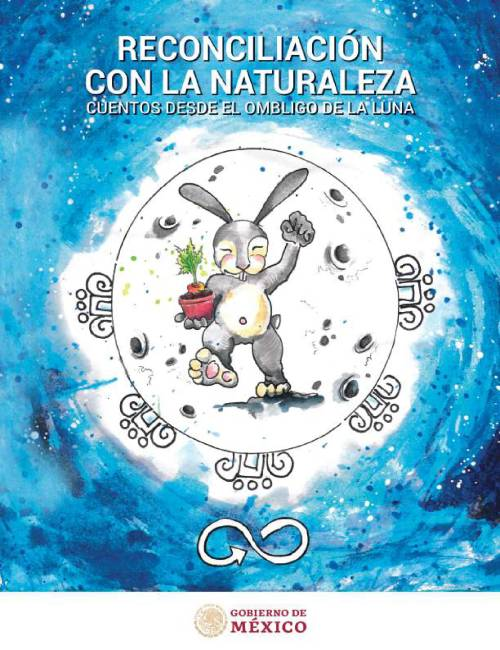
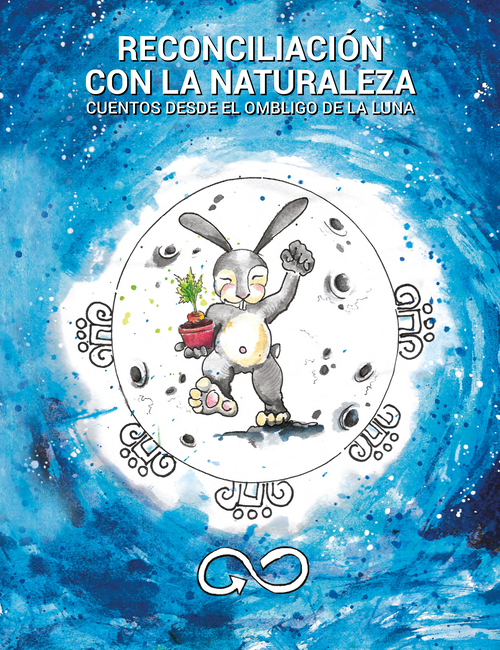
Agregando portadas nuevas

diff --git a/cuentos.html b/cuentos.html
@@ -99,7 +99,7 @@
                     <div class="flip-card">
                         <div class="flip-card-inner">
                             <div class="flip-card-front">
-                                <img src="libros/3/Cuento1/portada.jpeg" alt="Avatar" style="width:250px;height:325px;">
+                                <img src="libros/3/Cuento1/portada.jpg" alt="Avatar" style="width:250px;height:325px;">
                             </div>
                             <div class="flip-card-back">
                                 <h4>Cuentos desde</h4>
@@ -135,7 +135,7 @@
                     <div class="flip-card">
                         <div class="flip-card-inner">
                             <div class="flip-card-front">
-                                <img src="libros/4/Cuento1/portada.jpeg" alt="Avatar" style="width:250px;height:325px;">
+                                <img src="libros/4/Cuento1/portada.jpg" alt="Avatar" style="width:250px;height:325px;">
                             </div>
                             <div class="flip-card-back">
                                 <h4>Cuentos desde</h4>
@@ -166,7 +166,7 @@
                     <div class="flip-card">
                         <div class="flip-card-inner">
                             <div class="flip-card-front">
-                                <img src="libros/5/Cuento1/portada.jpeg" alt="Avatar" style="width:250px;height:325px;">
+                                <img src="libros/5/Cuento1/portada.jpg" alt="Avatar" style="width:250px;height:325px;">
                             </div>
                             <div class="flip-card-back">
                                 <h4>Cuentos desde</h4>
@@ -197,7 +197,7 @@
                     <div class="flip-card">
                         <div class="flip-card-inner">
                             <div class="flip-card-front">
-                                <img src="libros/6/Cuento1/portada.jpeg" alt="Avatar" style="width:250px;height:325px;">
+                                <img src="libros/6/Cuento1/portada.jpg" alt="Avatar" style="width:250px;height:325px;">
                             </div>
                             <div class="flip-card-back">
                                 <h4>Cuentos desde</h4>
